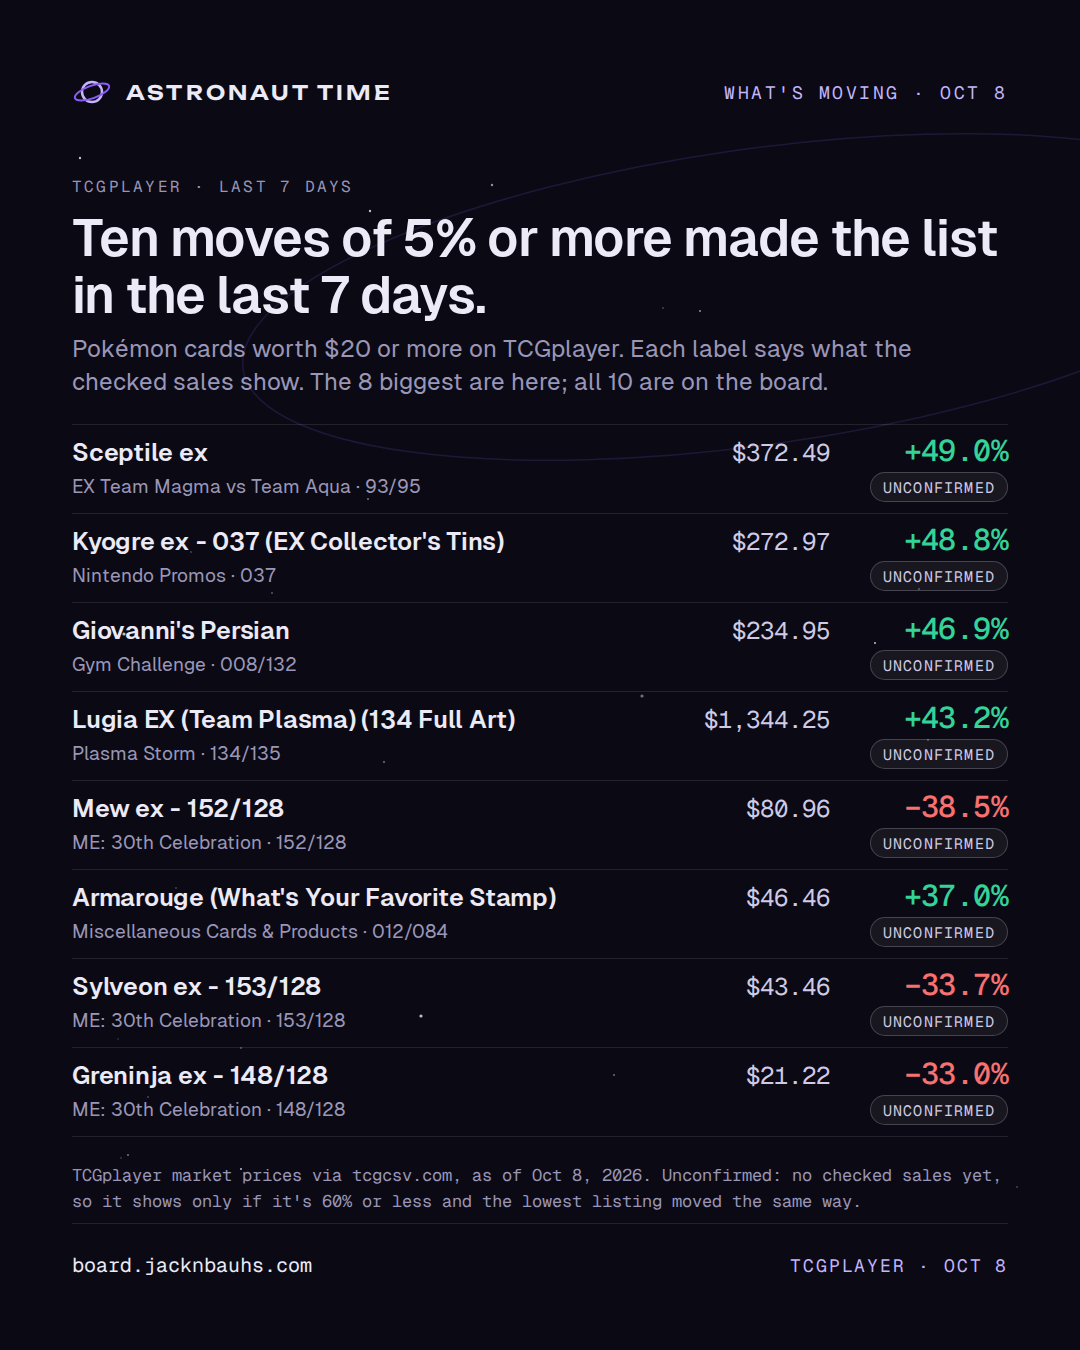
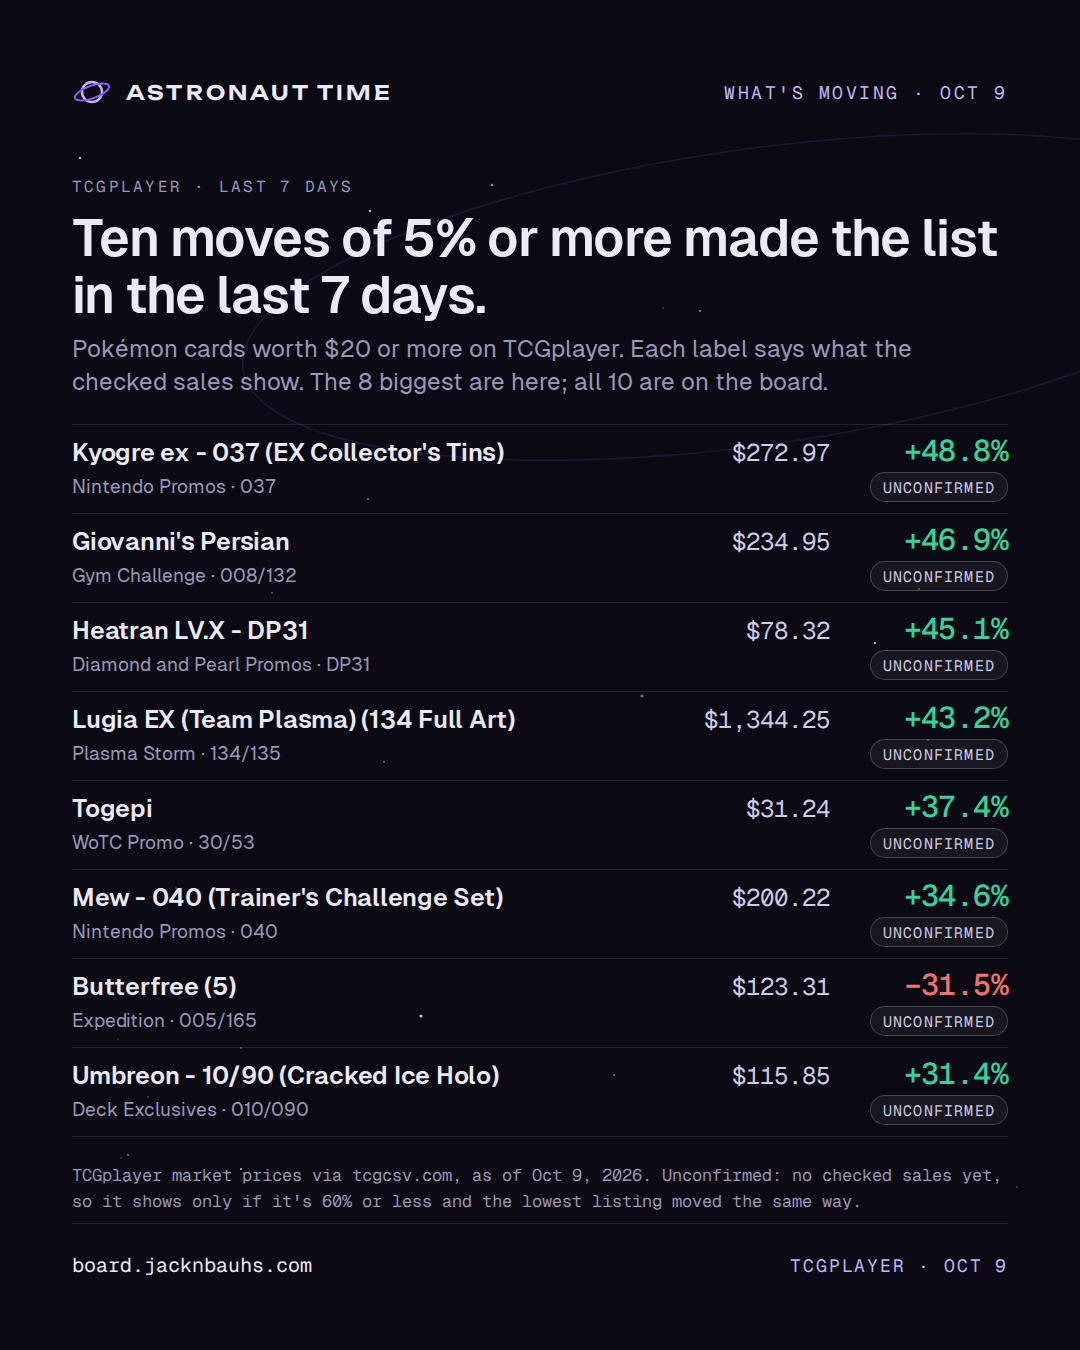
Share kit: render 2026-10-10

diff --git a/card.html b/card.html
@@ -10,14 +10,14 @@
 <meta property="og:url" content="https://board.jacknbauhs.com/card.html">
 <meta property="og:type" content="website">
 <meta property="og:site_name" content="Astronaut Time">
-<meta property="og:image" content="https://board.jacknbauhs.com/assets/og.png?v=2026-10-09">
+<meta property="og:image" content="https://board.jacknbauhs.com/assets/og.png?v=2026-10-10">
 <meta property="og:image:width" content="1200">
 <meta property="og:image:height" content="630">
 <meta property="og:image:alt" content="Mission Control by Astronaut Time: the card market, with the fake sales taken out.">
 <meta name="twitter:card" content="summary_large_image">
 <meta name="twitter:title" content="Card · Mission Control · Astronaut Time">
 <meta name="twitter:description" content="The card market, with the fake sales taken out.">
-<meta name="twitter:image" content="https://board.jacknbauhs.com/assets/og.png?v=2026-10-09">
+<meta name="twitter:image" content="https://board.jacknbauhs.com/assets/og.png?v=2026-10-10">
 <meta name="theme-color" content="#0B0A14">
 <link rel="icon" href="assets/favicon.svg" type="image/svg+xml">
 <link rel="preconnect" href="https://fonts.googleapis.com">

diff --git a/404.html b/404.html
@@ -10,14 +10,14 @@
 <meta property="og:url" content="https://board.jacknbauhs.com/">
 <meta property="og:type" content="website">
 <meta property="og:site_name" content="Astronaut Time">
-<meta property="og:image" content="https://board.jacknbauhs.com/assets/og.png?v=2026-10-09">
+<meta property="og:image" content="https://board.jacknbauhs.com/assets/og.png?v=2026-10-10">
 <meta property="og:image:width" content="1200">
 <meta property="og:image:height" content="630">
 <meta property="og:image:alt" content="Mission Control by Astronaut Time: the card market, with the fake sales taken out.">
 <meta name="twitter:card" content="summary_large_image">
 <meta name="twitter:title" content="Mission Control · Astronaut Time">
 <meta name="twitter:description" content="The card market, with the fake sales taken out.">
-<meta name="twitter:image" content="https://board.jacknbauhs.com/assets/og.png?v=2026-10-09">
+<meta name="twitter:image" content="https://board.jacknbauhs.com/assets/og.png?v=2026-10-10">
 <meta name="theme-color" content="#0B0A14">
 <link rel="icon" href="/assets/favicon.svg" type="image/svg+xml">
 <link rel="preconnect" href="https://fonts.googleapis.com">

diff --git a/index.html b/index.html
@@ -10,14 +10,14 @@
 <meta property="og:url" content="https://board.jacknbauhs.com/">
 <meta property="og:type" content="website">
 <meta property="og:site_name" content="Astronaut Time">
-<meta property="og:image" content="https://board.jacknbauhs.com/assets/og.png?v=2026-10-09">
+<meta property="og:image" content="https://board.jacknbauhs.com/assets/og.png?v=2026-10-10">
 <meta property="og:image:width" content="1200">
 <meta property="og:image:height" content="630">
 <meta property="og:image:alt" content="Mission Control by Astronaut Time: the card market, with the fake sales taken out.">
 <meta name="twitter:card" content="summary_large_image">
 <meta name="twitter:title" content="Mission Control · Astronaut Time">
 <meta name="twitter:description" content="The card market, with the fake sales taken out.">
-<meta name="twitter:image" content="https://board.jacknbauhs.com/assets/og.png?v=2026-10-09">
+<meta name="twitter:image" content="https://board.jacknbauhs.com/assets/og.png?v=2026-10-10">
 <meta name="theme-color" content="#0B0A14">
 <link rel="icon" href="assets/favicon.svg" type="image/svg+xml">
 <link rel="preconnect" href="https://fonts.googleapis.com">

diff --git a/share/out/captions.md b/share/out/captions.md
@@ -1,4 +1,4 @@
-# Captions, board data of 2026-10-09
+# Captions, board data of 2026-10-10
 
 One block per image. Caption first, alt text second. Plain facts, the source and the board link; nothing here is a buy.
 
@@ -40,6 +40,6 @@ Alt: Three calls on the record. Number 001: The 30th Celebration Booster Bundle'
 
 ## moving-2026-W41.png
 
-What's moving on TCGplayer, as of Oct 8, 2026. Ten moves of 5% or more made the list in the last 7 days. Sceptile ex (EX Team Magma vs Team Aqua · 93/95): $372.49, +49.0%, unconfirmed. Kyogre ex - 037 (EX Collector's Tins) (Nintendo Promos · 037): $272.97, +48.8%, unconfirmed. Giovanni's Persian (Gym Challenge · 008/132): $234.95, +46.9%, unconfirmed. Lugia EX (Team Plasma) (134 Full Art) (Plasma Storm · 134/135): $1,344.25, +43.2%, unconfirmed. Mew ex - 152/128 (ME: 30th Celebration · 152/128): $80.96, −38.5%, unconfirmed. Armarouge (What's Your Favorite Stamp) (Miscellaneous Cards & Products · 012/084): $46.46, +37.0%, unconfirmed. Sylveon ex - 153/128 (ME: 30th Celebration · 153/128): $43.46, −33.7%, unconfirmed. Greninja ex - 148/128 (ME: 30th Celebration · 148/128): $21.22, −33.0%, unconfirmed. Unconfirmed: no checked sales yet, so it shows only if it's 60% or less and the lowest listing moved the same way. Source: TCGplayer market prices via tcgcsv.com, as of Oct 8, 2026. board.jacknbauhs.com
+What's moving on TCGplayer, as of Oct 9, 2026. Ten moves of 5% or more made the list in the last 7 days. Kyogre ex - 037 (EX Collector's Tins) (Nintendo Promos · 037): $272.97, +48.8%, unconfirmed. Giovanni's Persian (Gym Challenge · 008/132): $234.95, +46.9%, unconfirmed. Heatran LV.X - DP31 (Diamond and Pearl Promos · DP31): $78.32, +45.1%, unconfirmed. Lugia EX (Team Plasma) (134 Full Art) (Plasma Storm · 134/135): $1,344.25, +43.2%, unconfirmed. Togepi (WoTC Promo · 30/53): $31.24, +37.4%, unconfirmed. Mew - 040 (Trainer's Challenge Set) (Nintendo Promos · 040): $200.22, +34.6%, unconfirmed. Butterfree (5) (Expedition · 005/165): $123.31, −31.5%, unconfirmed. Umbreon - 10/90 (Cracked Ice Holo) (Deck Exclusives · 010/090): $115.85, +31.4%, unconfirmed. Unconfirmed: no checked sales yet, so it shows only if it's 60% or less and the lowest listing moved the same way. Source: TCGplayer market prices via tcgcsv.com, as of Oct 9, 2026. board.jacknbauhs.com
 
 Alt: What's moving: the 8 biggest of the 10 TCGplayer moves on the list in the last 7 days, each with its market price, its change and the label for what checked sales show.
